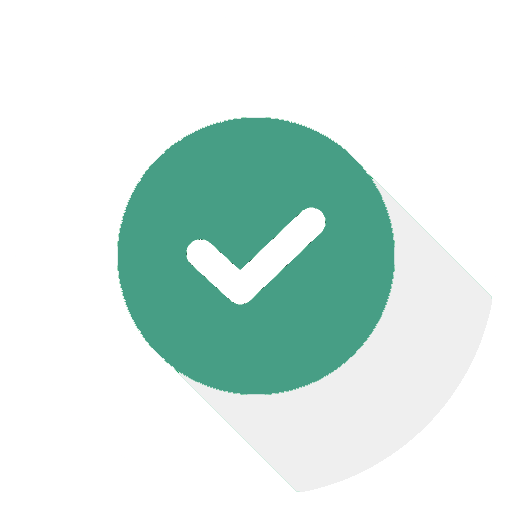
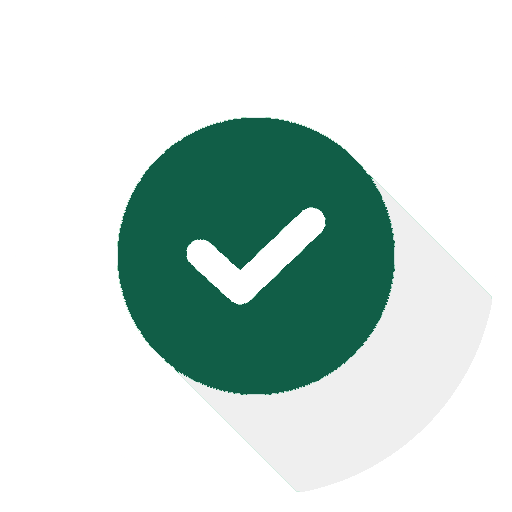
feat: Mensaje éxito

Changed region(s): [[0.2188, 0.2188, 0.7812, 0.7812]]

diff --git a/Utilidades/ExitoMensaje.xaml b/Utilidades/ExitoMensaje.xaml
@@ -3,21 +3,62 @@
         xmlns:x="http://schemas.microsoft.com/winfx/2006/xaml"
         xmlns:d="http://schemas.microsoft.com/expression/blend/2008"
         xmlns:mc="http://schemas.openxmlformats.org/markup-compatibility/2006"
-        xmlns:local="clr-namespace:UVemyCliente.Utilidades" WindowStartupLocation="CenterScreen"
-        mc:Ignorable="d" Height="260" Width="400">
-    <Grid>
-        <Grid.RowDefinitions>
-            <RowDefinition Height="Auto"/>
-            <RowDefinition/>
-        </Grid.RowDefinitions>
-        <Border Background="#479E85">
-            <StackPanel Margin="10">
-                <Image Source="/Recursos/success.png" Height="100" Width="100"/>
-                <TextBlock Margin="0 5 0 0"
-                    HorizontalAlignment="Center" FontSize="18" FontFamily="{StaticResource NunitoFont}" FontWeight="Bold" Foreground="#ffffff">Éxito</TextBlock>
-            </StackPanel>
-        </Border>
-        <TextBlock Grid.Row="1" HorizontalAlignment="Center" FontSize="18" FontFamily="{StaticResource NunitoFont}" Margin="20 20 20 10"
-                   VerticalAlignment="Top" TextWrapping="Wrap">Se realizó la operación exitosamente</TextBlock>
-    </Grid>
+        xmlns:local="clr-namespace:UVemyCliente.Utilidades" WindowStartupLocation="CenterScreen" ResizeMode="NoResize" WindowStyle="None"
+        mc:Ignorable="d" Height="300" Width="360" Background="Transparent" AllowsTransparency="True" >
+
+    <Window.Resources>
+        <Style x:Key="estiloBtnAceptar" TargetType="Button">
+            <Setter Property="Background" Value="#115E47"/>
+            <Setter Property="Foreground" Value="#ffffff"/>
+            <Setter Property="FontSize" Value="18"/>
+            <Setter Property="Width" Value="200"/>
+            <Setter Property="FontFamily" Value="{StaticResource NunitoItalicFont}"/>
+            <Setter Property="Template">
+                <Setter.Value>
+                    <ControlTemplate TargetType="Button">
+                        <Border Background="{TemplateBinding Background}" CornerRadius="20">
+                            <ContentPresenter HorizontalAlignment="Center" VerticalAlignment="Center" Margin="0 3">
+                                <ContentPresenter.ContentTemplate>
+                                    <DataTemplate>
+                                        <TextBlock Text="{Binding}" TextWrapping="Wrap" TextAlignment="Center"/>
+                                    </DataTemplate>
+                                </ContentPresenter.ContentTemplate>
+                            </ContentPresenter>
+                        </Border>
+                    </ControlTemplate>
+                </Setter.Value>
+            </Setter>
+            <Style.Triggers>
+                <Trigger Property="IsMouseOver" Value="True">
+                    <Setter Property="Cursor" Value="Hand"/>
+                    <Setter Property="Background" Value="#479E85"/>
+                </Trigger>
+            </Style.Triggers>
+        </Style>
+    </Window.Resources>
+
+    <Border CornerRadius="30" Background="#FFFFFF">
+        <Grid>
+            <Grid.RowDefinitions>
+                <RowDefinition Height="Auto"/>
+                <RowDefinition/>
+            </Grid.RowDefinitions>
+            <Border Background="#115E47" CornerRadius="30 30 0 0">
+                <StackPanel Margin="10">
+                    <Image Source="/Recursos/success.png" Height="100" Width="100"/>
+                    <TextBlock Margin="0 5 0 0"
+                        HorizontalAlignment="Center" FontSize="18" FontFamily="{StaticResource NunitoFont}" FontWeight="Bold" Foreground="#ffffff">Éxito</TextBlock>
+                </StackPanel>
+            </Border>
+            <Grid Grid.Row="1">
+                <Grid.RowDefinitions>
+                    <RowDefinition />
+                    <RowDefinition/>
+                </Grid.RowDefinitions>
+                <TextBlock  HorizontalAlignment="Center" FontSize="16" FontFamily="{StaticResource NunitoFont}" Margin="20 10 20 10" TextAlignment="Center"
+               VerticalAlignment="Center" TextWrapping="Wrap">Se ha realizado exitosamente la operación</TextBlock>
+                <Button Grid.Row="1" Style="{StaticResource estiloBtnAceptar}" Margin="0 5 0 10" Click="ClicAceptar">Aceptar</Button>
+            </Grid>
+        </Grid>
+    </Border>
 </Window>

diff --git a/Utilidades/ExitoMensaje.xaml.cs b/Utilidades/ExitoMensaje.xaml.cs
@@ -23,5 +23,10 @@ namespace UVemyCliente.Utilidades
         {
             InitializeComponent();
         }
+
+        private void ClicAceptar(object sender, RoutedEventArgs e)
+        {
+            Close();
+        }
     }
 }
